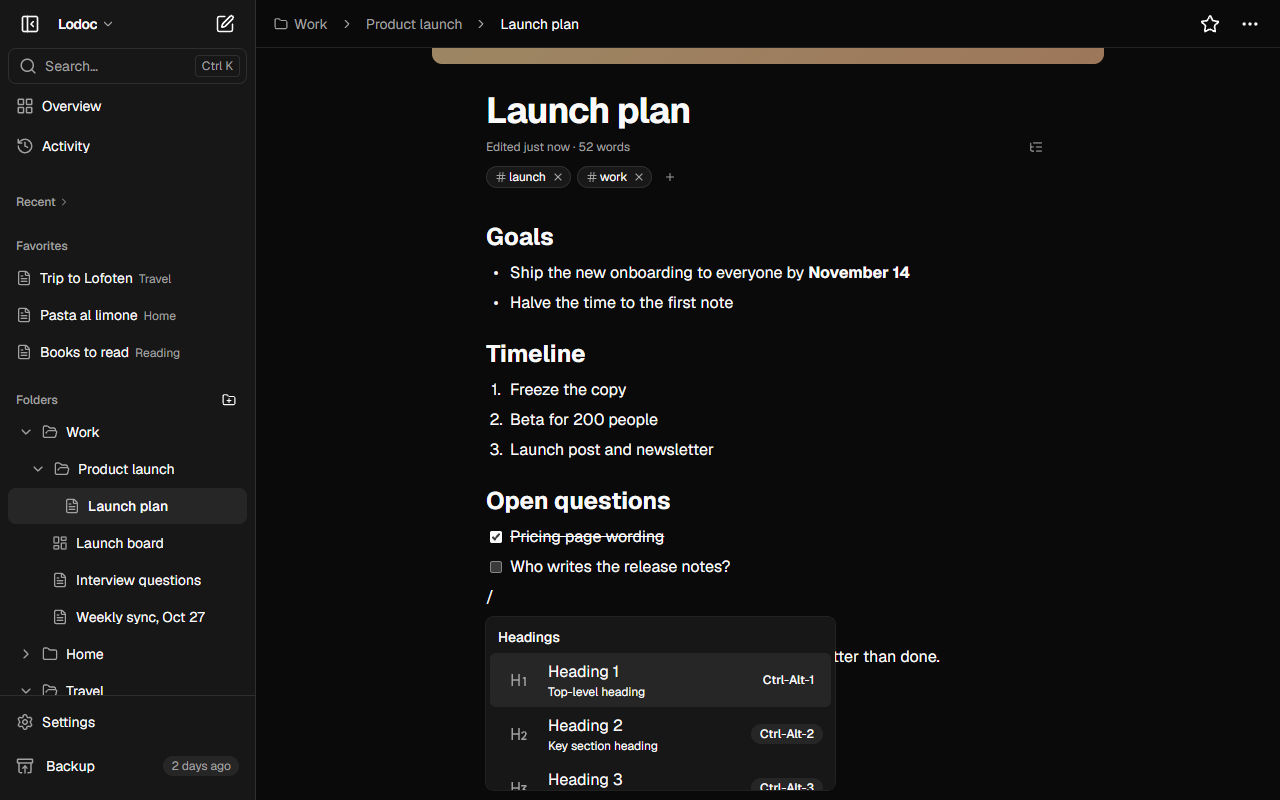
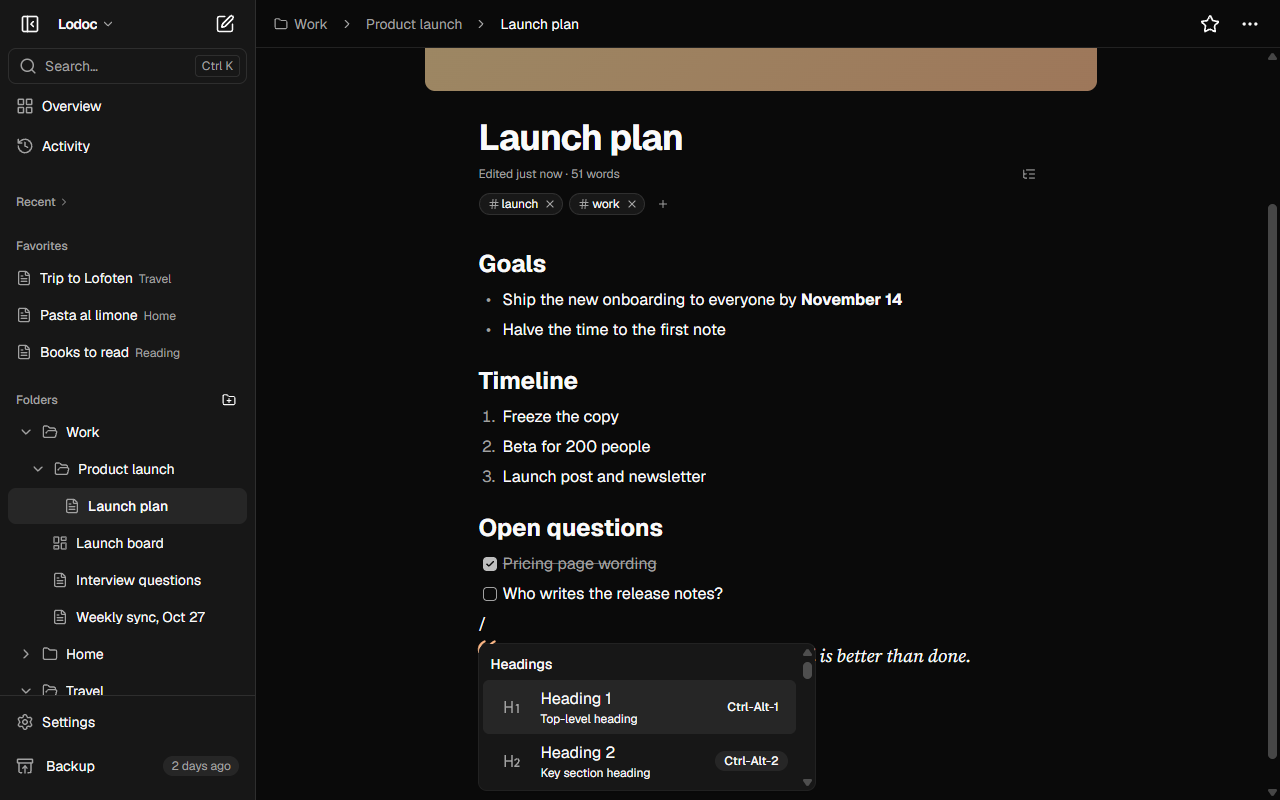
docs: editor screenshots with the new list markers and checkboxes
Also the / menu's code block no longer promises syntax highlighting.

diff --git a/src/components/editor/slash-items.tsx b/src/components/editor/slash-items.tsx
@@ -8,7 +8,9 @@ type Editor = BlockNoteEditor<typeof editorSchema.blockSchema, typeof editorSche
 
 /** The "/" menu: BlockNote's own items with a callout after the quote */
 function allItems(editor: Editor): DefaultReactSuggestionItem[] {
-  const items = getDefaultReactSlashMenuItems(editor)
+  // BlockNote's code block promises syntax highlighting, which Lodoc doesn't load
+  const codeTitle = editor.dictionary.slash_menu.code_block.title
+  const items = getDefaultReactSlashMenuItems(editor).map((item) => (item.title === codeTitle ? { ...item, subtext: 'Code or a snippet' } : item))
   const callout: DefaultReactSuggestionItem = {
     title: 'Callout',
     subtext: 'A box that stands out, for a tip or a warning',

diff --git a/site/src/content/changelog/0.5.md b/site/src/content/changelog/0.5.md
@@ -98,3 +98,4 @@ summary: 'Settings in one place, high contrast and reduced motion, and a quieter
 - A message's close button sits inside its top-right corner.
 - A board's name has a soft backdrop on every screen, so frames and cards under it don't run into it.
 - Dividers in notes follow the theme and tint instead of one fixed grey.
+- The / menu no longer promises syntax highlighting for code blocks, which Lodoc doesn't do.
